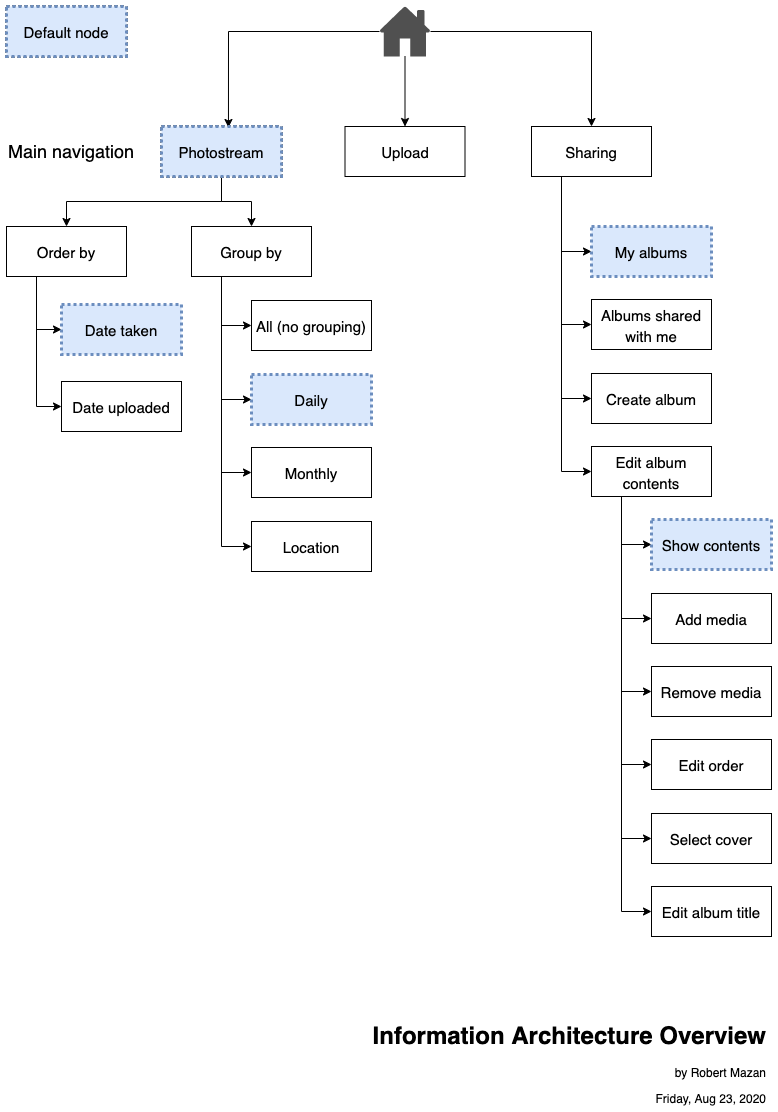
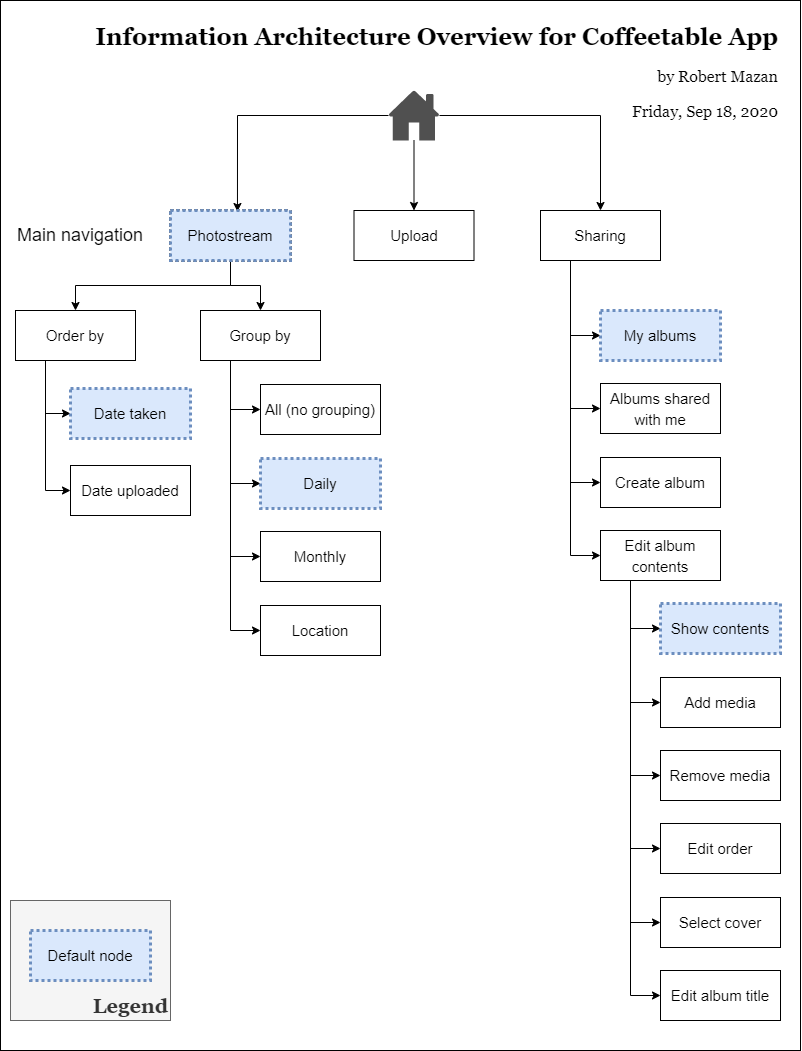
Improved SAD

diff --git a/docs/architecture.md b/docs/architecture.md
@@ -8,6 +8,7 @@
   - [Goals](#goals)
   - [Definitions, acronyms, abbreviations](#definitions-acronyms-abbreviations)
 - [High-level requirements](#high-level-requirements)
+  - [Information Architecture Overview](#information-architecture-overview)
 - [Technology choices](#technology-choices)
   - [OpenResty](#openresty)
   - [PostgreSQL and Postgrest](#postgresql-and-postgrest)
@@ -24,8 +25,6 @@
     - [Authentication Proxy](#authentication-proxy)
     - [Single-Page Application](#single-page-application)
   - [Data model](#data-model)
-  - [Information Architecture Overview](#information-architecture-overview)
-- [Deployment approaches](#deployment-approaches)
 
 <!-- END doctoc generated TOC please keep comment here to allow auto update -->
 
@@ -66,6 +65,16 @@ Users who are authorized to do uploads have the same privileges as viewers plus 
 * Change the order media is shown in an album
 * Select cover photo for the album
 * Edit album title
+
+### Information Architecture Overview
+
+![Information Architecture Diagram](images/ia.png)
+
+The users land on their *Photostream* page. On this page by default, they see all their photos ordered by *Date Taken* and in a *Daily* grouping. They can change the sorting to sort by *Date uploaded* and the grouping to *Monthly* or *Location*-based grouping or turn off grouping completely to simply show a continuous stream.
+
+They can initiate file upload where they can select multiple media files present on the device and send them to the Web Application for processing.
+
+For the MVP the sharing part is managed partially with Keycloak: we rely on Keycloak's UMA interface for sharing albums with other users. Creating, listing, and editing albums will be part of the Single-Page Application functionality.
 
 ## Technology choices
 
@@ -119,9 +128,14 @@ Serves all the static assets related to the Single-Page Application.
 
 Transforms media related queries into Media API requests, enriches proxied headers by adding bearer token to the Authentication header (provided from the session).
 
+![Component Diagram for the Web Application](images/web_application_component.png)
+
 Manages media uploads: handles the physical file upload, extracts metadata using the `exiftool`, moves the uploaded file to the user's folder on the File System, stores metadata in the DB using the Media API.
 
+![Dynamic Diagram for media upload](images/upload.png)
+
 If the UMA interfaces provided by Keycloak turns out to be not usable enough, the Web Application's responsibility will be to provide an appropriate API to the Single-Page Application for users to manage their own albums sharing.
+
 
 #### Media API
 
@@ -144,15 +158,3 @@ Provides UI to the end-user to see their own photos sorted and grouped as they c
 ![Logical Data Structure](images/logical_data_structure.png)
 
 After uploading a media file the metadata will be extracted using the `exiftool`. This metadata goes through a normalization process where unusable information (e.g. filename, which is a temp name in this case) gets removed. The rest of the metadata will be saved with the media entry as `JSONB`. To make certain queries easier however, we store some important data as fields too - this makes it possible to easily sort and group the queried entries.
-
-### Information Architecture Overview
-
-![Information Architecture Diagram](images/ia.png)
-
-The users land on their *Photostream* page. On this page by default, they see all their photos ordered by *Date Taken* and in a *Daily* grouping. They can change the sorting to sort by *Date uploaded* and the grouping to *Monthly* or *Location*-based grouping or turn off grouping completely to simply show a continuous stream.
-
-They can initiate file upload where they can select multiple media files present on the device and send them to the Web Application for processing.
-
-For the MVP the sharing part is managed partially with Keycloak: we rely on Keycloak's UMA interface for sharing albums with other users. Creating, listing, and editing albums will be part of the Single-Page Application functionality.
-
-## Deployment approaches
